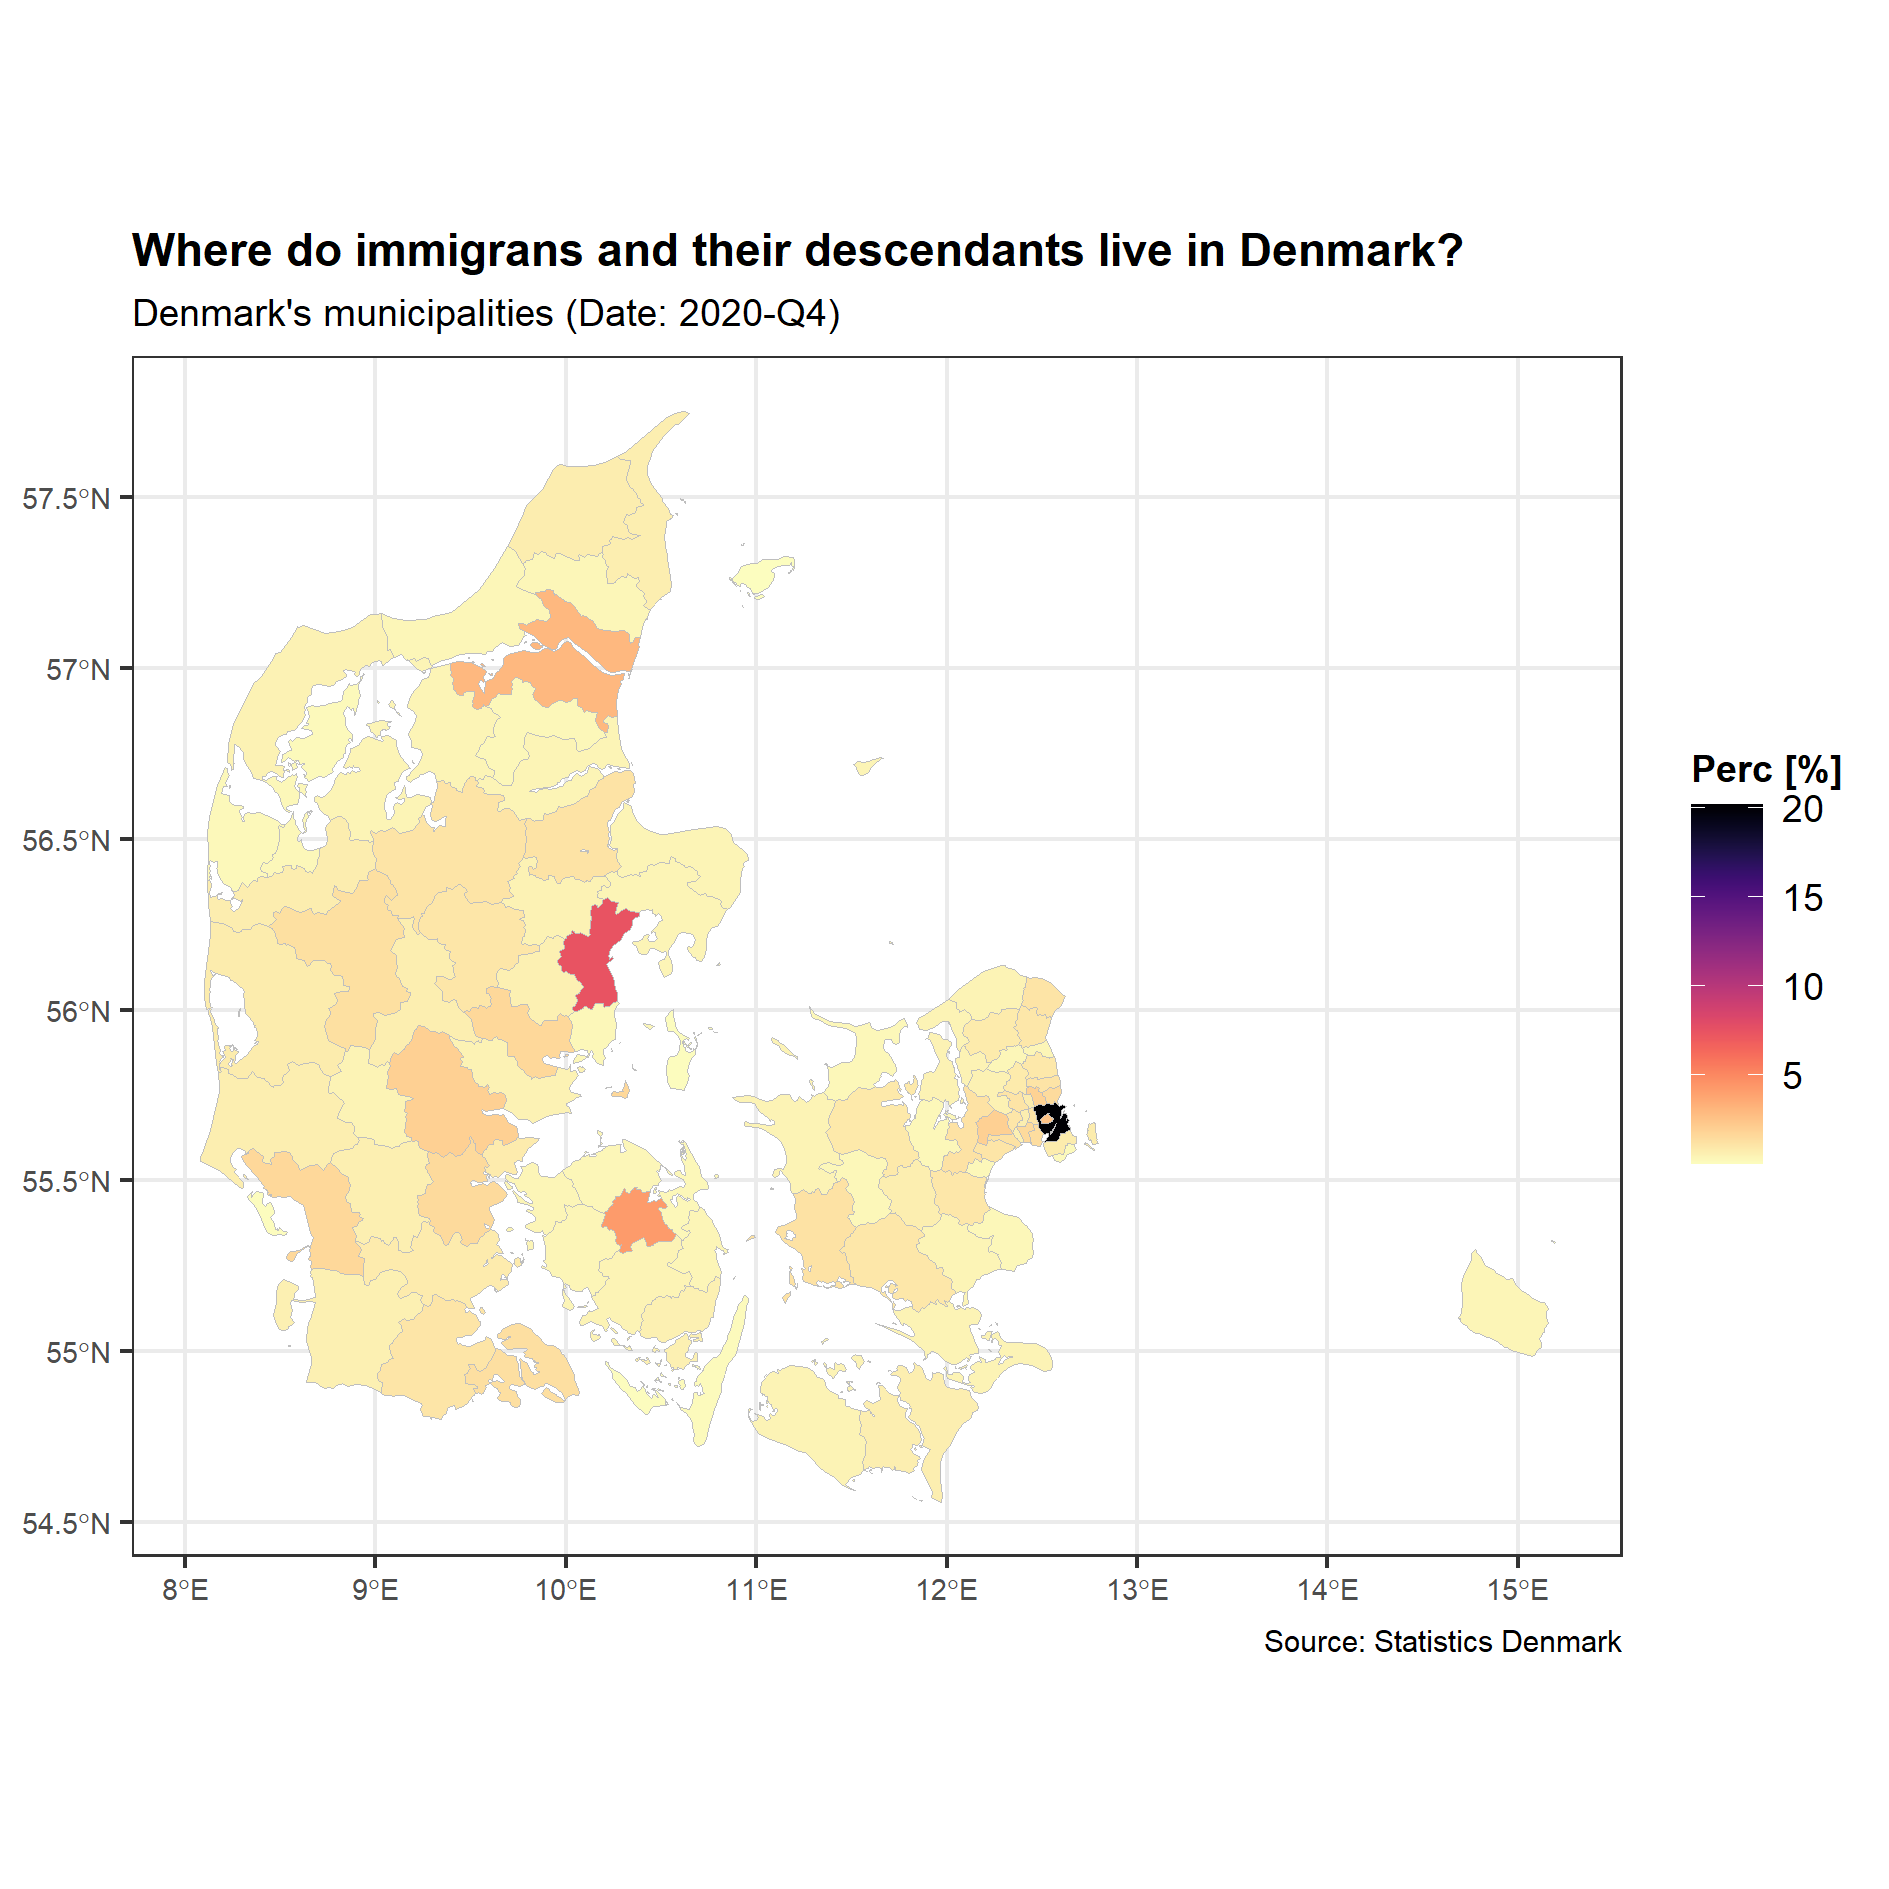
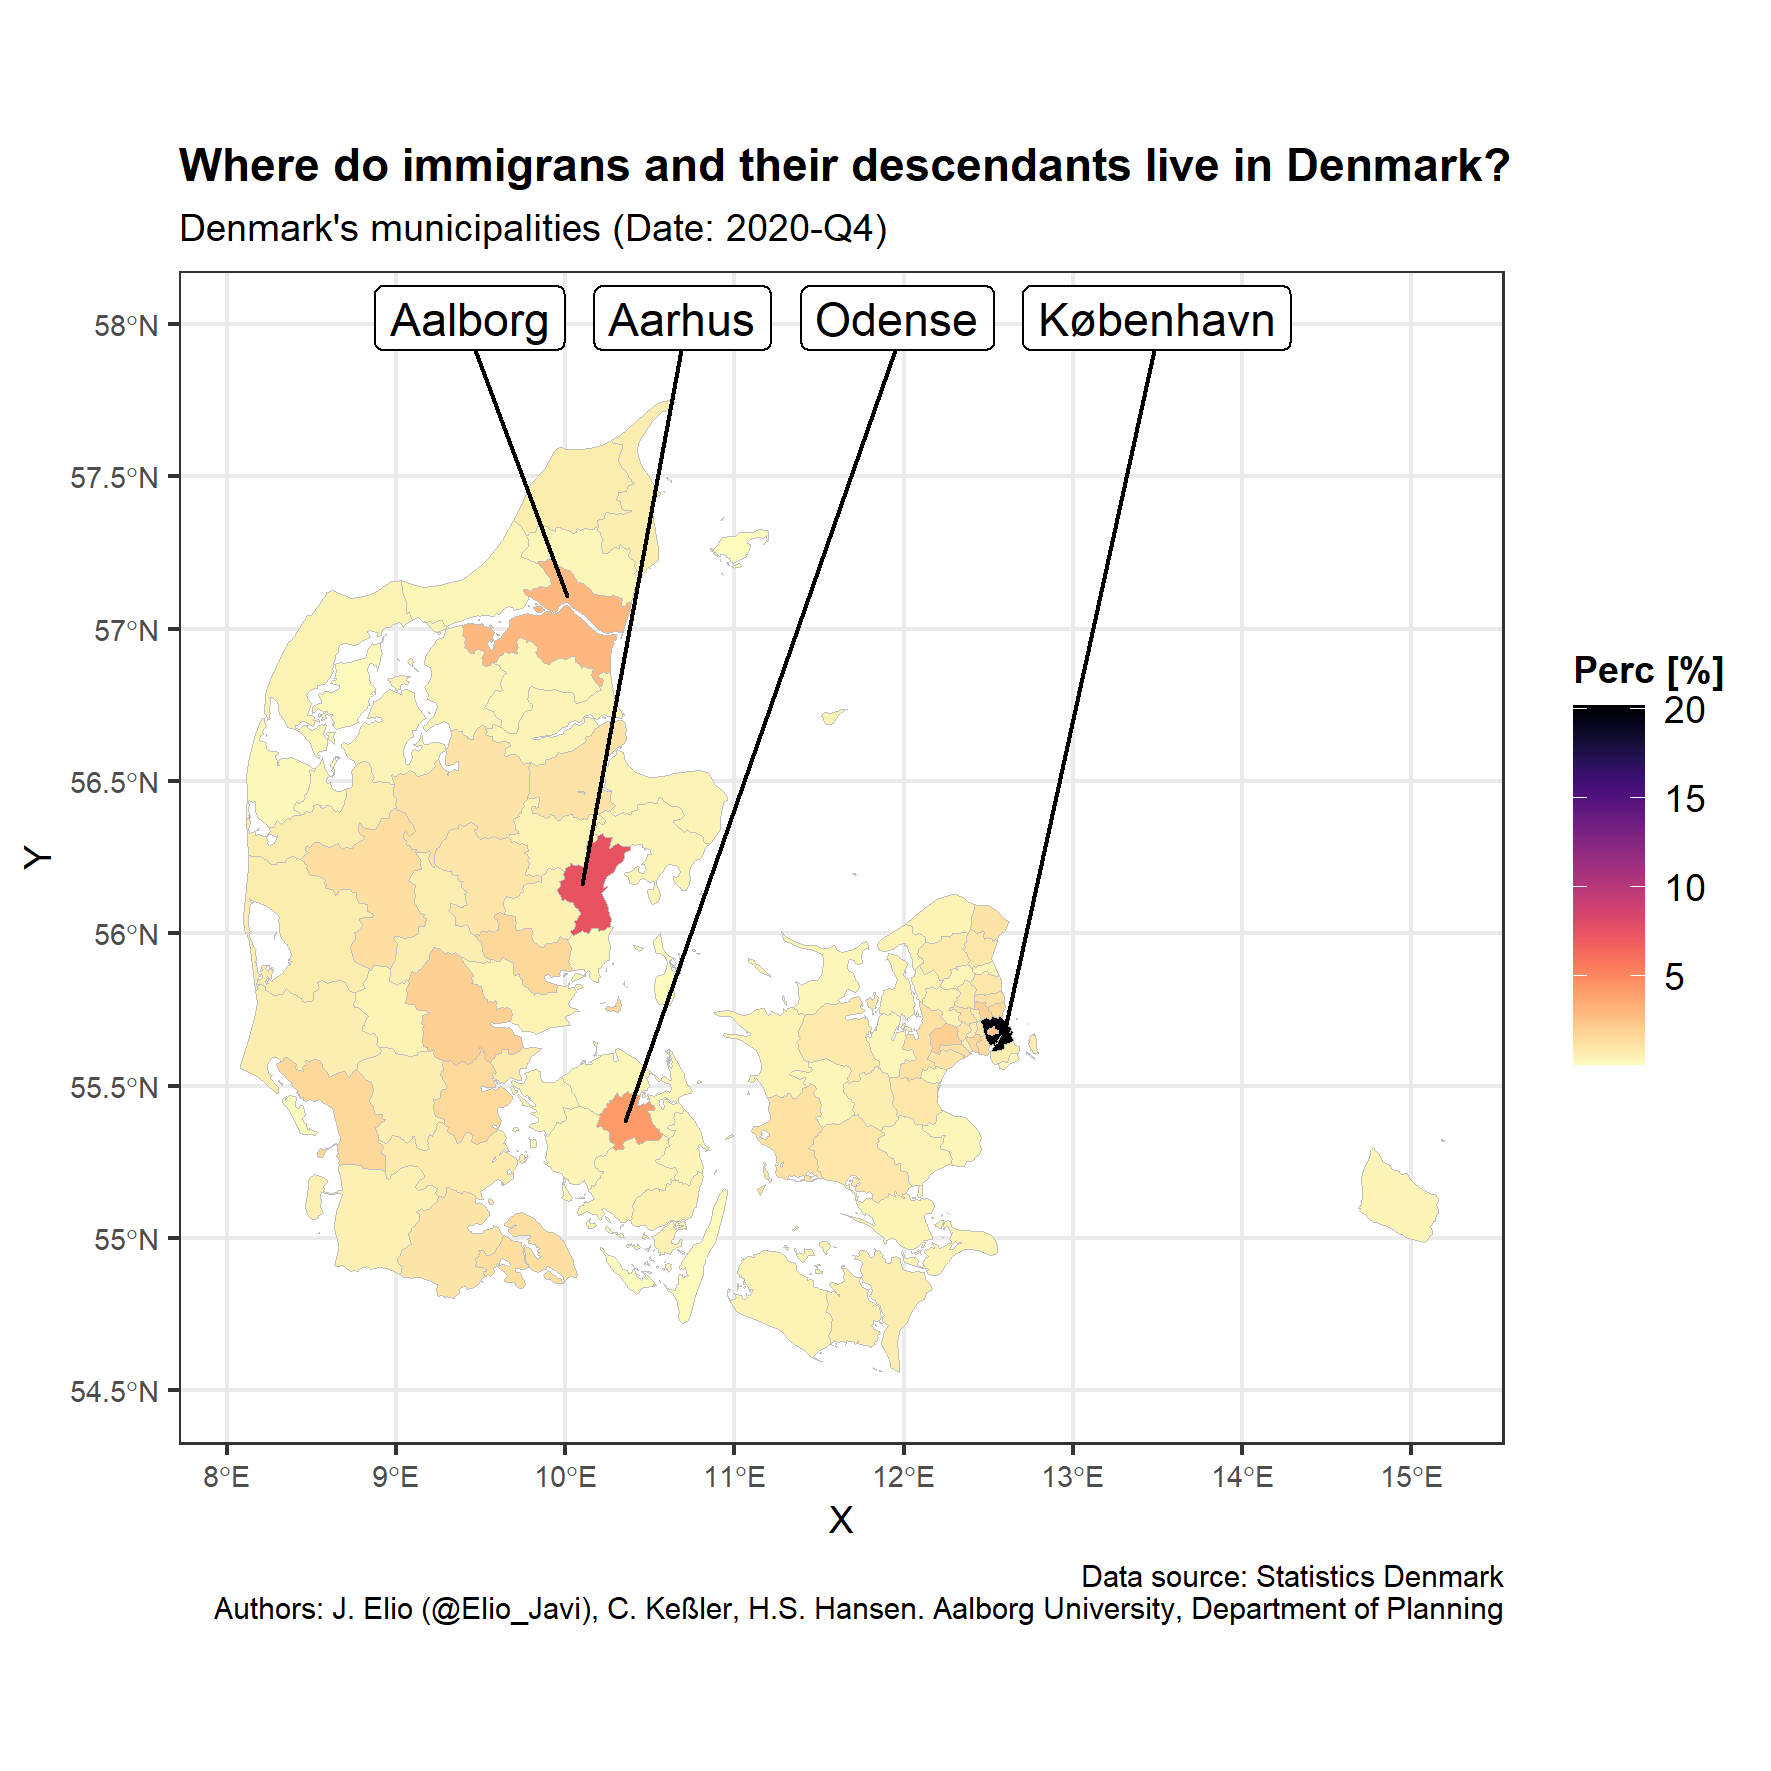
Plots spatial distribution of immigrants

diff --git a/README.md b/README.md
@@ -31,6 +31,7 @@ Each R-script is independent with enough information for downloading the require
   - *pop_growth_LAUs_maps*: Maps showing the population change by Local Administrative Units (LAUs) from 2008 to 2020.
   - *pop_growth_LAUs_animation*: animation (.gif) showing the population change by Local Administrative Units (LAUs) from 2008 to 2020.
   - *migrants_LAUs*: immigrants and their descendants by LAUs. 
+  - *migrants_LAUs_maps*: maps showing where immigrants and their descendants live. 
 
 # Notes
 
